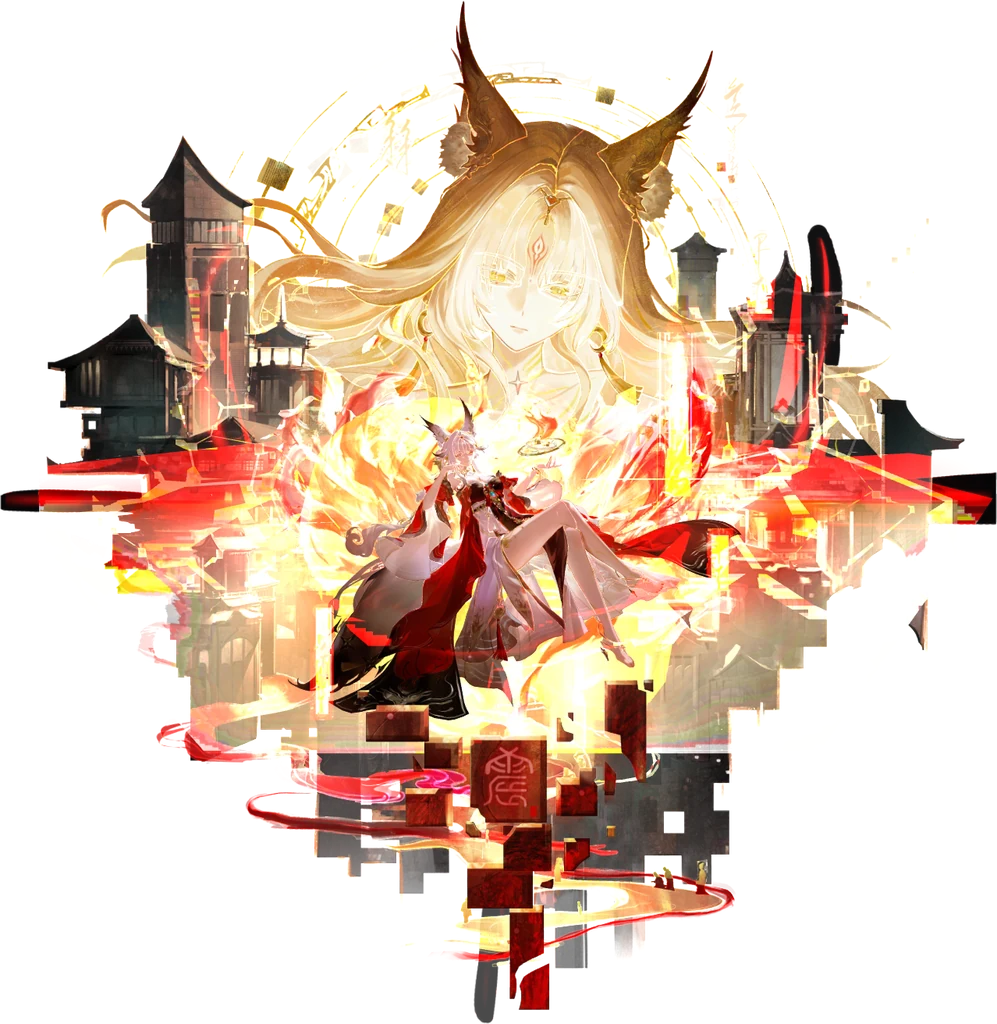
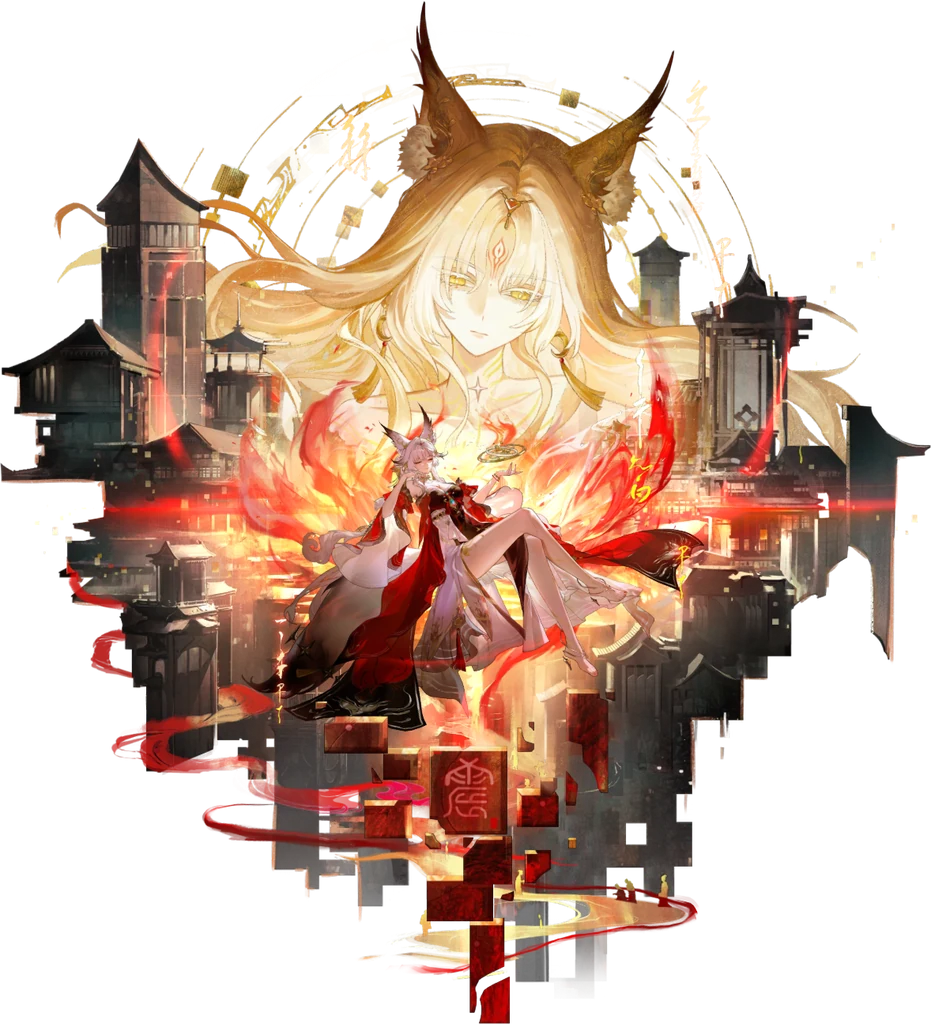
Hsin: re-render static sprite and Luckdraw still; user framing
- The two stills were rendered with spine-player in premultipliedAlpha
  mode while her atlas pages are straight alpha, which washed out their
  colours (lifted blacks, paler reds) in the Collection card and the
  profile header. Re-rendered from the same rigs with the app's own
  settings (premultipliedAlpha false, additive alpha fix).
- Framing from the user's admin panel: collection-Hsin 17/-25/240,
  info-Hsin 3/-62/300.

Claude-Session: https://claude.ai/code/session_01KxAqymhocVeg5fWqeQeaa9

diff --git a/app/src/data/imageFraming.js b/app/src/data/imageFraming.js
@@ -62,7 +62,7 @@ export const DEFAULT_IMAGE_FRAMING = Object.freeze({
   // that bleed is his weapon/energy wisp, not his body), so the average zoom left him looking smaller
   // than everyone else — bumped zoom and shifted the crop up toward his torso/face.
   'collection-Jingran': { x: -2, y: -22, zoom: 250 },
-  'collection-Hsin': { x: 7, y: -25, zoom: 250 },
+  'collection-Hsin': { x: 17, y: -25, zoom: 240 },
   'collection-Solsworn Ciphers': { x: 2, y: -2, zoom: 100 },
   'collection-Blazing Justice': { x: 0, y: 0, zoom: 100 },
   // 4-star Resonators
@@ -204,7 +204,7 @@ export const DEFAULT_IMAGE_FRAMING = Object.freeze({
   'info-Yangyang: Xuanling': { x: -12, y: -59, zoom: 283 },
   'info-Qingxiao': { x: -10, y: -57, zoom: 283 },
   'info-Jingran': { x: -16, y: -56, zoom: 300 },
-  'info-Hsin': { x: -5, y: -66, zoom: 300 },
+  'info-Hsin': { x: 3, y: -62, zoom: 300 },
   // Weapon info-panel framing (WeaponDetailModal header image)
   "info-Firstlight's Herald": { x: 10, y: 0, zoom: 140 },
   'info-Azure Oath': { x: 6, y: 0, zoom: 130 },
